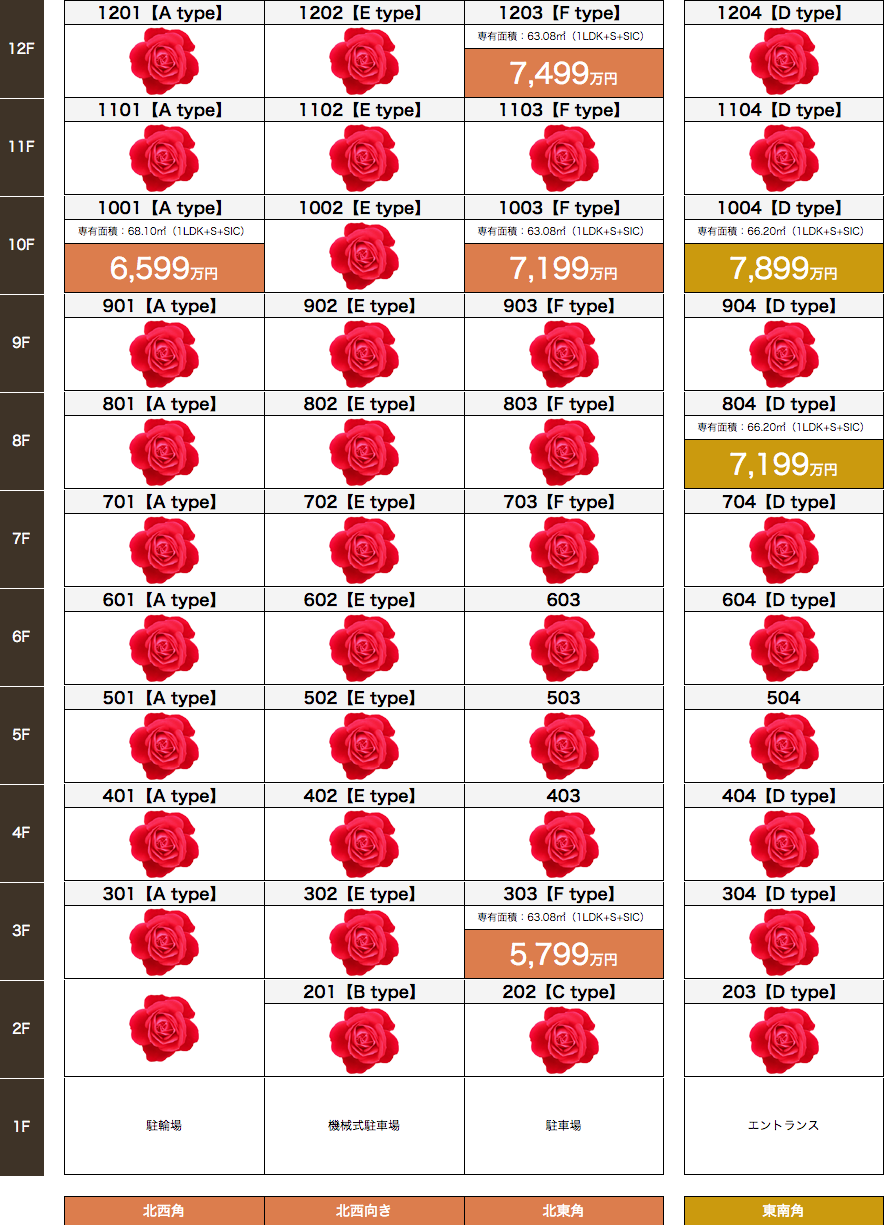
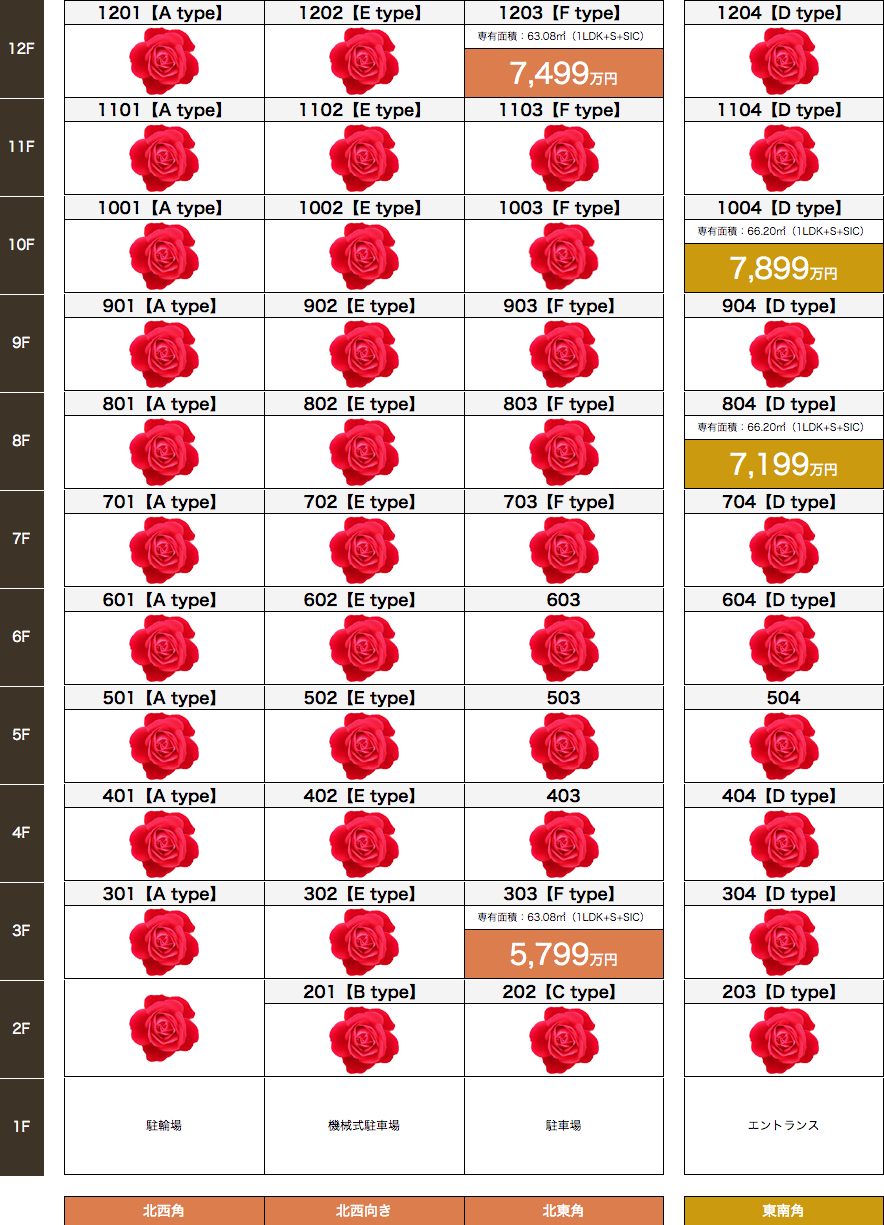
1. プロポライフ/ pls change 2 image file and overwrite some text

Changed region(s): [[0.5192, 0.1551, 0.7636, 0.2482], [0.0611, 0.1861, 0.3054, 0.2482]]

diff --git a/prostyle-residence/www/nihonbashibakurocho/index.html b/prostyle-residence/www/nihonbashibakurocho/index.html
@@ -171,9 +171,9 @@ j=d.createElement(s),dl=l!='dataLayer'?'&l='+l:'';j.async=true;j.src=
 			    <!-- 2 <li><a href="plan/" class="popup" data-name="map" data-size="900,900" data-option="menubar=no, toolbar=no, scrollbars=yes"><img src="assets/images/top/180821btn-top02.png?v=0820-2" alt="60m2 x 10階 = 6,499万円"></a></li>-->
 			    <!-- 3 --><!--<li><a href="plan/" class="popup" data-name="map" data-size="900,900" data-option="menubar=no, toolbar=no, scrollbars=yes"><img src="assets/images/top/181109btn-top03.png" alt="68m2超 x 角住戸 = 6,399万円～"></a></li>-->
 			</ul>
-			<p class="notice">※1：りそな銀行、変動金利0.47％（平成30年12月現在）、元利均等35年返済の場合。詳細は「ローンのご案内」を参照ください。■ローンのご案内●金融機関：りそな銀行●融資金利：変動金利0.47％（基準金利：2.475％▲2.005％）※金利は年2回見直しされますが、返済額は適用金利が変わっても5年間一定で、5年ごとに調整されます（ただし、前返済額の1.25倍が限度）●お借入金額：50万円以上1億円以下（10万円単位）●ご返済期間：1年以上35年以内●販売価格に対する融資限度額の割合／100％以内●事務手数料：お借入金額の2.16％(消費税等込)※お申込に際し、所定の審査をさせていただきます。審査により、ご希望に添えない場合がございますので、あらかじめご了承ください。※お借入後に条件を変更する場合は、手数料がかかる場合がございます。<br>
+			<p class="notice">※1：りそな銀行、変動金利0.47％（平成31年1月現在）、元利均等35年返済の場合。詳細は「ローンのご案内」を参照ください。■ローンのご案内●金融機関：りそな銀行●融資金利：変動金利0.47％（基準金利：2.475％▲2.005％）※金利は年2回見直しされますが、返済額は適用金利が変わっても5年間一定で、5年ごとに調整されます（ただし、前返済額の1.25倍が限度）●お借入金額：50万円以上1億円以下（10万円単位）●ご返済期間：1年以上35年以内●販売価格に対する融資限度額の割合／100％以内●事務手数料：お借入金額の2.16％(消費税等込)※お申込に際し、所定の審査をさせていただきます。審査により、ご希望に添えない場合がございますので、あらかじめご了承ください。※お借入後に条件を変更する場合は、手数料がかかる場合がございます。<br>
 			※2：Dタイプ借入金額/7,190万円、毎月返済額（年12回）/185,690円（月々元本/7,190万円）<br>
-			※3：Fタイプ借入金額/6,590万円、毎月返済額（年12回）/170,194円（月々元本/6,590万円）
+			※3：Fタイプ借入金額/7,490万円、毎月返済額（年12回）/193,438円（月々元本/7,490万円）
 		</div>
 		<div class="section07 section">
 			<div class="top-campaign-box">
@@ -191,7 +191,7 @@ j=d.createElement(s),dl=l!='dataLayer'?'&l='+l:'';j.async=true;j.src=
 						</ul>
 
 							</div>
-					<p class="notice">※4：303号室、703号室、804号室は対象外住戸となります。今後、価格改定などで対象外住戸となる場合がございますので、ご了承ください。また、予告なく終了する場合がございますのでご了承ください。<br>
+					<p class="notice">※4：303号室、804号室は対象外住戸となります。今後、価格改定などで対象外住戸となる場合がございますので、ご了承ください。また、予告なく終了する場合がございますのでご了承ください。<br>
 						※5：Fタイプ・63.08㎡・1203号室、2018年12月より、モデルルームとして使用しております。現況有姿でのお引渡しとなります。詳しくは係員までお尋ねください。
 					<!--※2：2018年3月5日より、Aタイプ501号室の価格を6,199万円に価格変更いたしました。（旧価格6,399万円　販売時期：2017年8月19日～2018年3月4日）<br>
 					※3：2018年3月5日より、Aタイプ601号室の価格を6,299万円に価格変更いたしました。（旧価格6,479万円　販売時期：2017年10月11日～2018年3月4日）<br>

diff --git a/prostyle-residence/www/nihonbashibakurocho/outline/index.html b/prostyle-residence/www/nihonbashibakurocho/outline/index.html
@@ -239,7 +239,7 @@ j=d.createElement(s),dl=l!='dataLayer'?'&l='+l:'';j.async=true;j.src=
 	      <table summary="「プロスタイル日本橋馬喰町」先着順販売概要" class="tbl-outline tbl-default">
 					<tbody><tr>
 						<th>販売戸数</th>
-						<td>6戸</td>
+						<td>4戸</td>
 					</tr>
 					<tr>
 					  <th>販売価格</th>
@@ -255,7 +255,7 @@ j=d.createElement(s),dl=l!='dataLayer'?'&l='+l:'';j.async=true;j.src=
 					</tr>
 					<tr>
 						<th>住戸専有面積</th>
-						<td>63.08㎡～68.10㎡</td>
+						<td>63.08㎡・66.20㎡</td>
 					</tr>
 					<tr>
 						<th>バルコニー面積</th>
@@ -263,30 +263,30 @@ j=d.createElement(s),dl=l!='dataLayer'?'&l='+l:'';j.async=true;j.src=
 					</tr>
 	        <tr>
 						<th>室外機置場面積</th>
-						<td>0.91㎡～1.04㎡</td>
+						<td>1.04㎡</td>
 					</tr>
 	        <tr>
 						<th>管理費（月額）</th>
-						<td>14,820円～16,000円</td>
+						<td>14,820円・15,560円</td>
 					</tr>
 					<tr>
 						<th>修繕積立金（月額）</th>
-						<td>6,310円～6,810円</td>
+						<td>6,310円・6,620円</td>
 					</tr>
 					<tr>
 						<th>管理準備金（引渡時一括）</th>
-						<td>14,820円～16,000円</td>
+						<td>14,820円・15,560円</td>
 					</tr>
 					<tr>
 						<th>修繕積立基金（引渡し時一括）</th>
-						<td>340,740円～367,740円</td>
+						<td>340,740円・357,480円</td>
 					</tr>
 					<tr>
 						<th>備考</th>
 						<td>
 							<ul>
 								<li>申込受付場所／「プロスタイル日本橋馬喰町」現地販売センター</li>
-								<li>※申込の際には、認印、本人確認書類、平成28年、29年分の収入を証明できる書類等をご持参ください。別途、書類が必要となる場合がございますので、詳しくは担当者にお問合せください。</li>
+								<li>※申込の際には、認印、本人確認書類、平成29年、30年分の収入を証明できる書類等をご持参ください。別途、書類が必要となる場合がございますので、詳しくは担当者にお問合せください。</li>
 								<li>※サービスルーム（S）の表記がある場合納戸を示します。</li>
 							</ul>
 						</td>

diff --git a/prostyle-residence/www/nihonbashibakurocho/price-list/index.html b/prostyle-residence/www/nihonbashibakurocho/price-list/index.html
@@ -182,13 +182,10 @@ j=d.createElement(s),dl=l!='dataLayer'?'&l='+l:'';j.async=true;j.src=
 						<li class="storey">10F</li>
 
 						<li>
-							<a class="td" href="../a-type/index.html" target="_blank">
 							<div class="td">
 								<div class="room">1001【A type】</div>
-								<div class="acreage">専有面積：68.10㎡（1LDK+S+SIC）</div>
-								<div class="price-b">6,599<span class="font14">万円</span></div>
+								<img class="seiyaku" src="../assets/images/price-list/rose.png" />
 							</div>
-							</a>
 						</li>
 
 						<li>
@@ -199,13 +196,10 @@ j=d.createElement(s),dl=l!='dataLayer'?'&l='+l:'';j.async=true;j.src=
 						</li>
 
 						<li>
-							<a class="td" href="../f-type/index.html" target="_blank">
 							<div class="td">
 								<div class="room">1003【F type】</div>
-								<div class="acreage">専有面積：63.08㎡（1LDK+S+SIC）</div>
-								<div class="price-b">7,199<span class="font14">万円</span></div>
+								<img class="seiyaku" src="../assets/images/price-list/rose.png" />
 							</div>
-							</a>
 						</li>
 
 						<li>

diff --git a/prostyle-residence/www/nihonbashibakurocho/plan/index.html b/prostyle-residence/www/nihonbashibakurocho/plan/index.html
@@ -128,7 +128,7 @@ j=d.createElement(s),dl=l!='dataLayer'?'&l='+l:'';j.async=true;j.src=
 				<li><a href="../f-type" class="popup" data-name="map" data-size="900,900" data-option="menubar=no, toolbar=no, scrollbars=yes"><img src="../assets/images/plan/180524btn_f_link.jpg" alt="F-type"></a></li>
 			</ul> -->
 
-			<div class="type_box">
+			<!-- <div class="type_box">
 				<div class="name">
 					<img src="../assets/images/plan/type_a.png" alt="Atype">
 				</div>
@@ -140,7 +140,7 @@ j=d.createElement(s),dl=l!='dataLayer'?'&l='+l:'';j.async=true;j.src=
 					<a href="../a-type" class="popup" data-name="map" data-size="900,900" data-option="menubar=no, toolbar=no, scrollbars=yes"><img src="../assets/images/plan/btn_plan.png" alt="間取りを見る"></a>
 					<a href="https://my.matterport.com/show/?m=EnwHZGAvNR3" target="_blank"><img src="../assets/images/plan/btn_vr.png" alt="VRで見る"></a>
 				</div>
-			</div>
+			</div> -->
 
 			<div class="type_box">
 				<div class="name">
